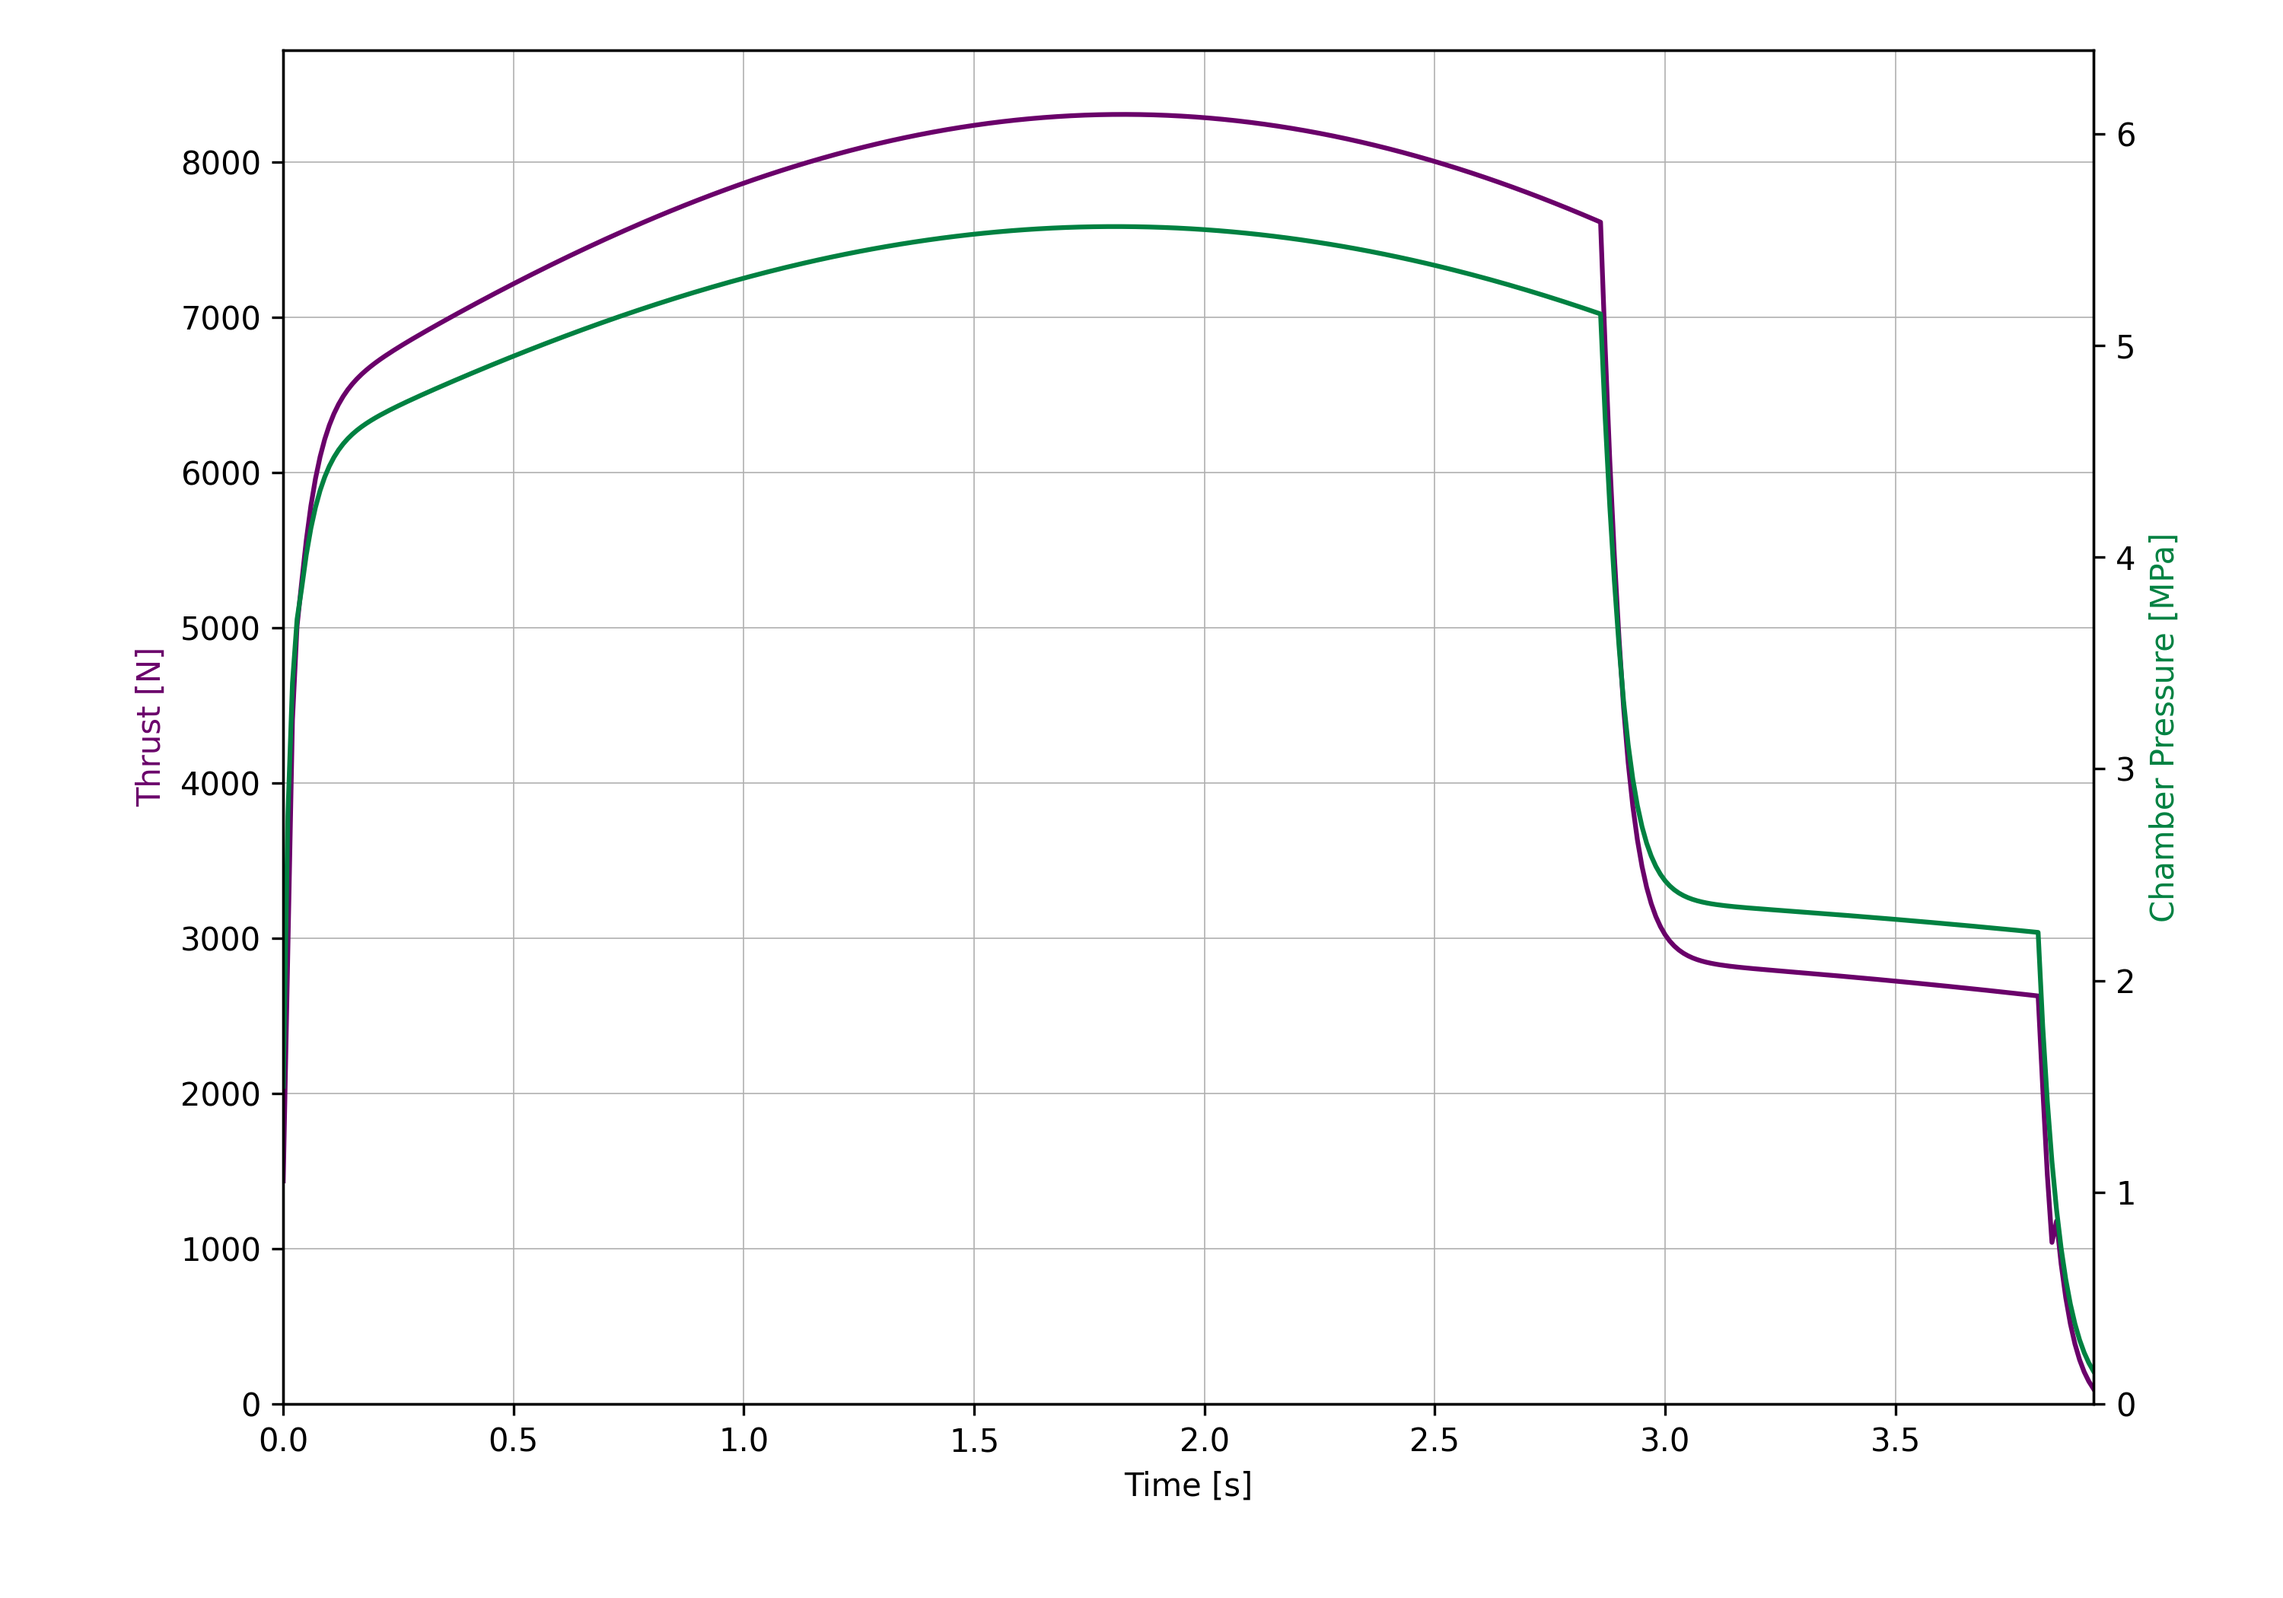
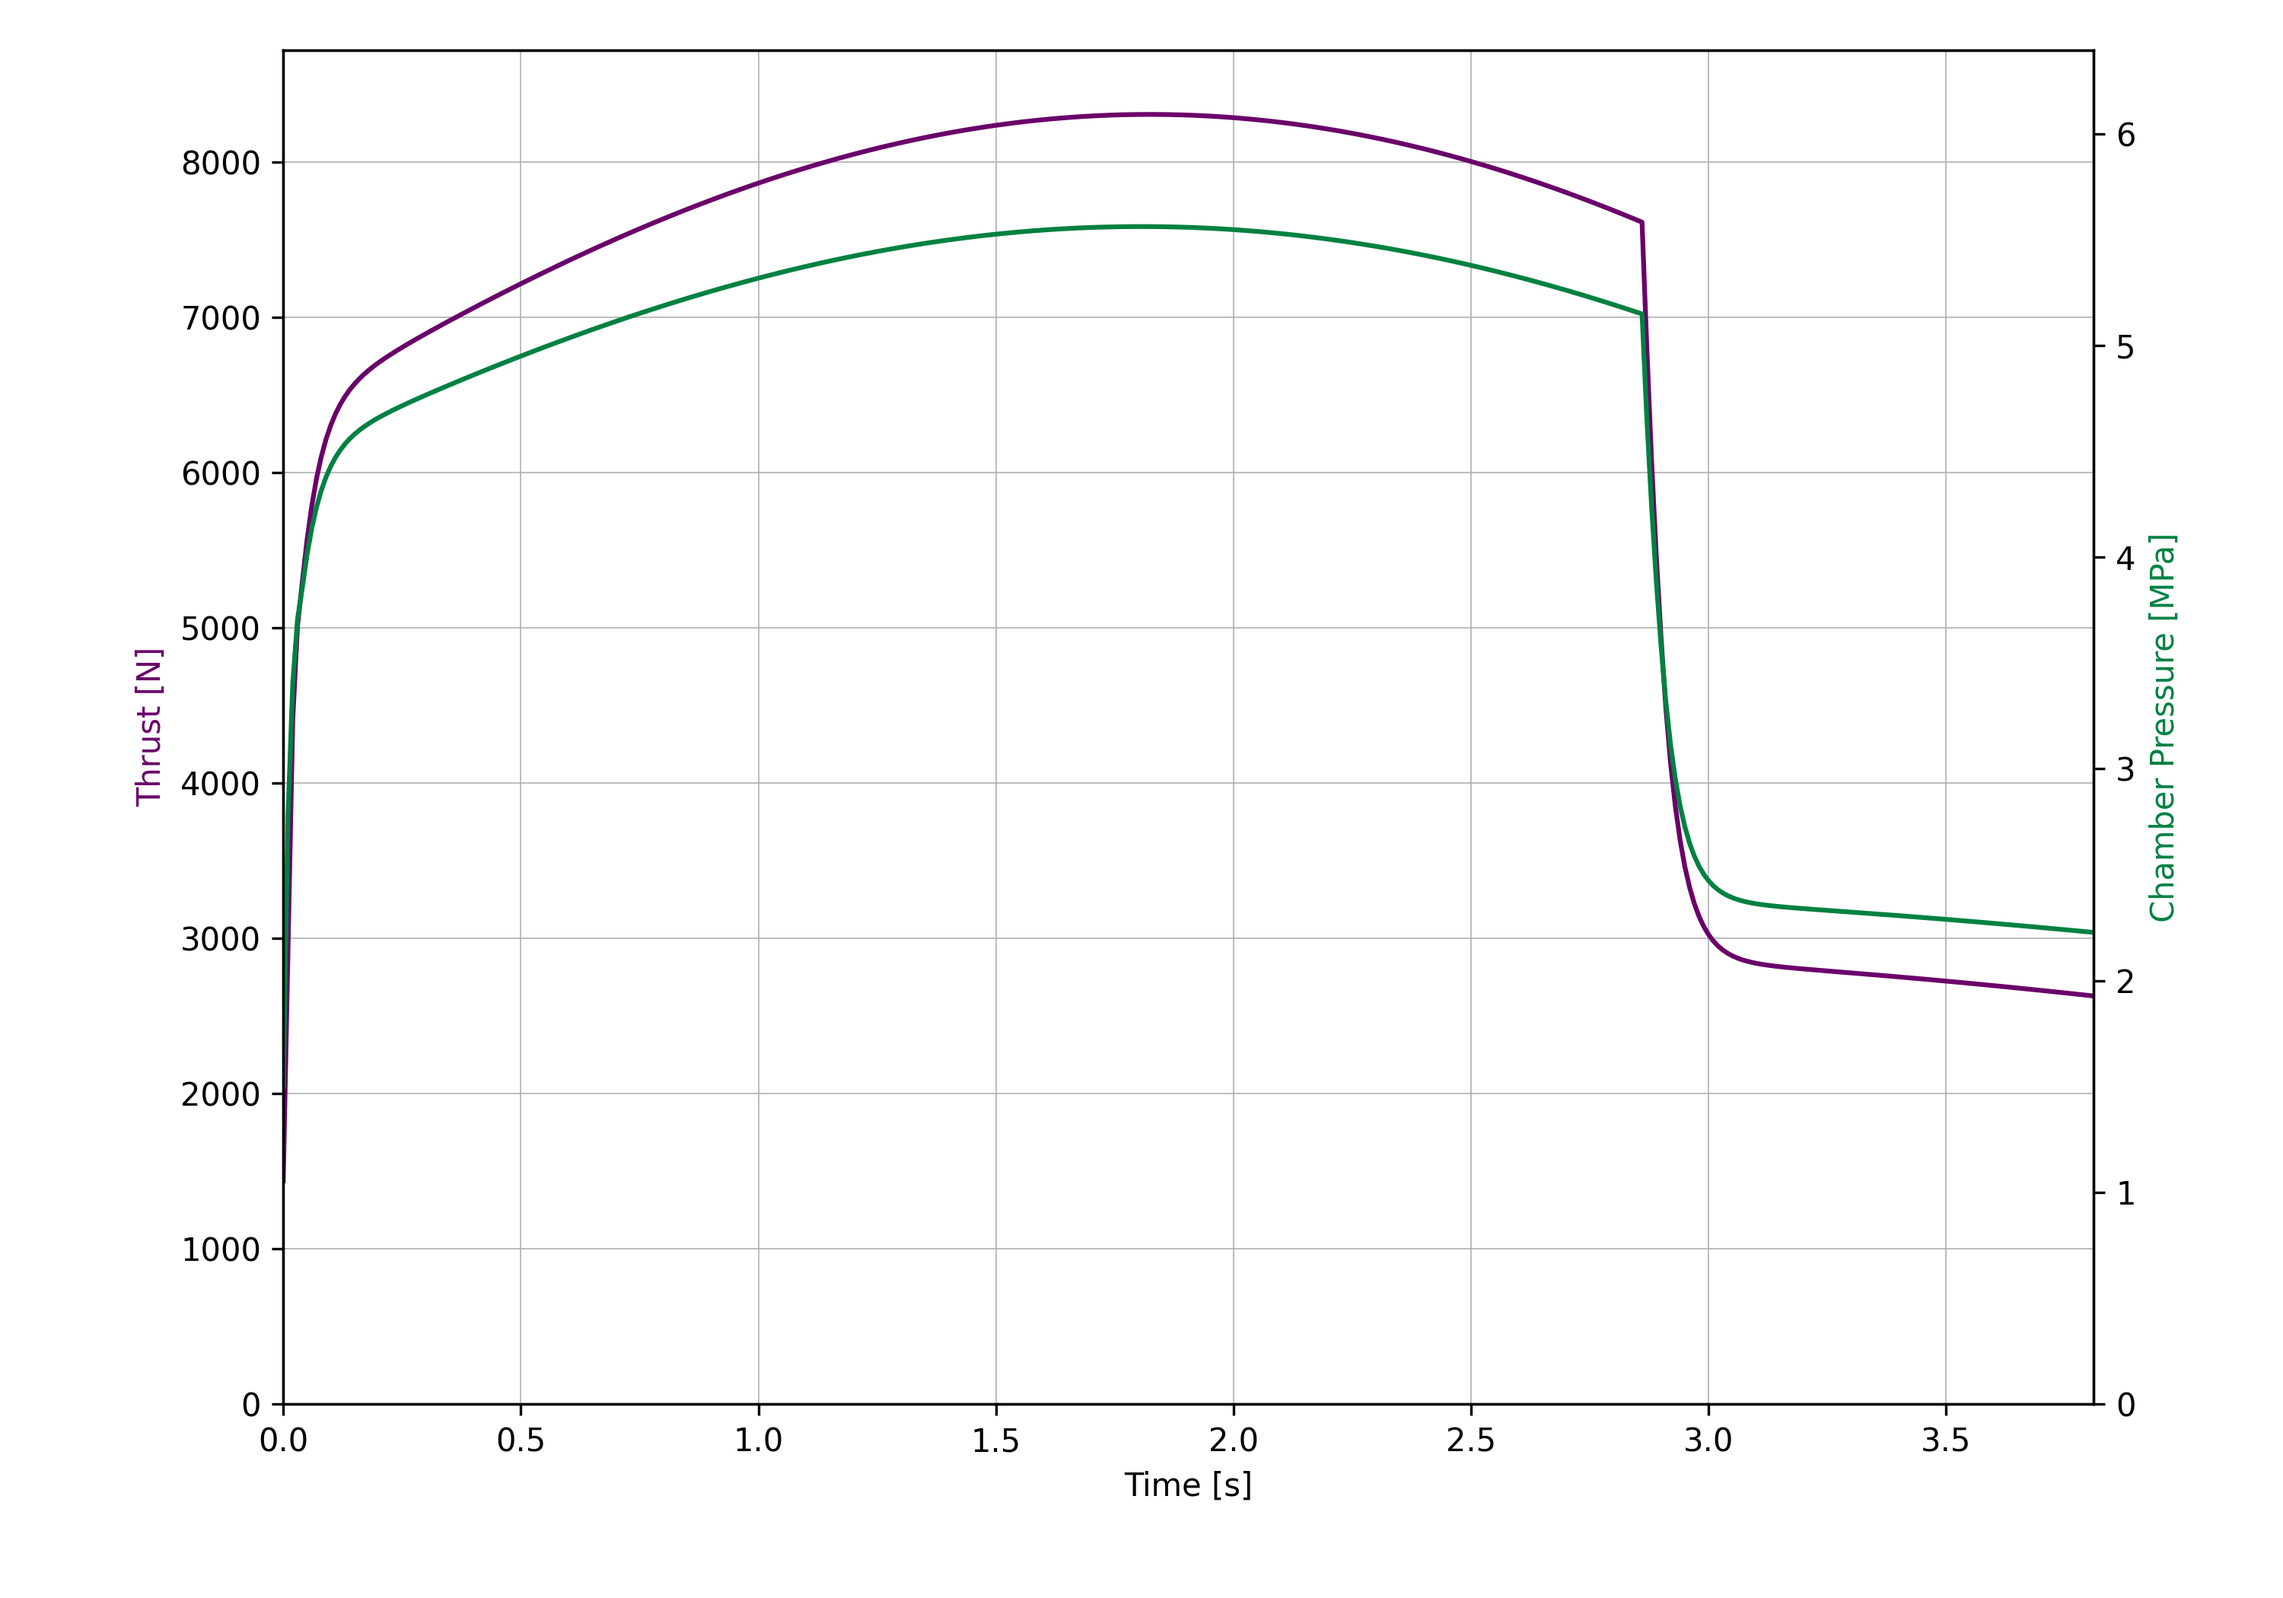
Version 2.0

diff --git a/functions/Simulation.py b/functions/Simulation.py
@@ -51,6 +51,7 @@ def run_ballistics(prop, propellant, grain, structure, rocket, recovery, dt, ddt
     # After the propellant is finished burning and the thrust chamber has stopped producing supersonic flow,
     # 'end_thrust' is changed to a True value and the internal ballistics section of the while loop below stops running.
     end_thrust = False
+    end_burn = False
     i = 0
     while y[i] >= 0 or m_prop[i - 1] > 0:
 
@@ -114,9 +115,13 @@ def run_ballistics(prop, propellant, grain, structure, rocket, recovery, dt, ddt
             C_f, Cf_ideal = np.append(C_f, Cf_atual), np.append(Cf_ideal, Cf_ideal_atual)
             T = np.append(T, C_f[i] * structure.A_throat * P0[i])
 
+            if m_prop[i] == 0 and end_burn is False:
+                t_burnout = t[i]
+                end_burn = True
+
             # This if statement changes 'end_thrust' to True if supersonic flow is not achieved anymore.
             if P0[i] <= P_ext[i] / critical_pressure_ratio:
-                t_burnout = t[i]
+                t_thrust = t[i]
                 dt = dt * ddt
                 T_mean = np.mean(T)
                 end_thrust = True
@@ -192,9 +197,9 @@ def run_ballistics(prop, propellant, grain, structure, rocket, recovery, dt, ddt
     Kn_non_zero = Kn[Kn != 0.0]
     initial_to_final_kn = Kn_non_zero[0] / Kn_non_zero[- 1]
     grain_mass_flux = grain.get_mass_flux_per_segment(grain, r, propellant.pp, web)
-    ib_parameters = InternalBallistics(t, P0, T, T_mean, I_total, I_sp, t_burnout, nozzle_eff, Exp_opt, V_prop, A_burn,
-                                       Kn, m_prop, grain_mass_flux, optimal_grain_length, initial_port_to_throat,
-                                       burn_profile, V_empty, initial_to_final_kn)
+    ib_parameters = InternalBallistics(t, P0, T, T_mean, I_total, I_sp, t_burnout, t_thrust, nozzle_eff, Exp_opt,
+                                       V_prop, A_burn, Kn, m_prop, grain_mass_flux, optimal_grain_length,
+                                       initial_port_to_throat, burn_profile, V_empty, initial_to_final_kn)
 
     return ballistics, ib_parameters
 

diff --git a/functions/InternalBallistics.py b/functions/InternalBallistics.py
@@ -8,8 +8,8 @@ from functions.Propellant import *
 
 
 class InternalBallistics:
-    def __init__(self, t, P0, T, T_mean, I_total, I_sp, t_burnout, nozzle_eff, E_opt, V_prop_CP, A_burn_CP, Kn, m_prop,
-                 grain_mass_flux, optimal_grain_length, initial_port_to_throat, burn_profile, V_empty,
+    def __init__(self, t, P0, T, T_mean, I_total, I_sp, t_burnout, t_thrust, nozzle_eff, E_opt, V_prop_CP, A_burn_CP,
+                 Kn, m_prop, grain_mass_flux, optimal_grain_length, initial_port_to_throat, burn_profile, V_empty,
                  initial_to_final_kn):
         self.t = t
         self.P0 = P0
@@ -18,6 +18,7 @@ class InternalBallistics:
         self.I_total = I_total
         self.I_sp = I_sp
         self.t_burnout = t_burnout
+        self.t_thrust = t_thrust
         self.nozzle_eff = nozzle_eff
         self.E_opt = E_opt
         self.V_prop = V_prop_CP

diff --git a/SRM-Solver.py b/SRM-Solver.py
@@ -176,5 +176,5 @@ print('Execution time: %.4f seconds\n\n' % (time.time() - start))
 performance_figure = performance_plot(ib_parameters.T, ib_parameters.P0, ib_parameters.t, ib_parameters.t_burnout)
 main_figure = main_plot(ib_parameters.t, ib_parameters.T, ib_parameters.P0, ib_parameters.Kn, ib_parameters.m_prop,
                         ib_parameters.t_burnout)
-mass_flux_figure = mass_flux_plot(ib_parameters.t, ib_parameters.grain_mass_flux, ib_parameters.t_burnout)
+mass_flux_figure = mass_flux_plot(ib_parameters.t, ib_parameters.grain_mass_flux, ib_parameters.t_thrust)
 ballistics_plots(ballistics.t, ballistics.acc, ballistics.v, ballistics.y, 9.81)
